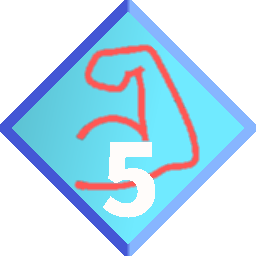
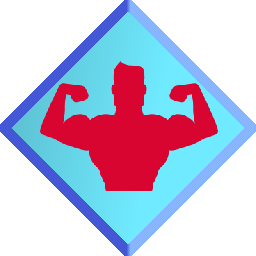
【パッシブの画像変更】新パッシブ追加

Changed region(s): [[0.1562, 0.1562, 0.875, 0.875]]

diff --git a/SourceCode/engine/2d/ImageManager.cpp b/SourceCode/engine/2d/ImageManager.cpp
@@ -42,15 +42,16 @@ void ImageManager::StartLoad2D()
 	IKESprite::LoadTexture(MAP_CHEACK_NO, L"Resources/2d/objicon/Map/T_Cancel.png");
 	IKESprite::LoadTexture(TUTORIAL_SKIPUI, L"Resources/2d/objicon/SKIP.png");
 	IKESprite::LoadTexture(PASSIVE_ACTIVE, L"Resources/2d/objicon/Passive/Passive_Active.png");
-	IKESprite::LoadTexture(PASSIVE_01, L"Resources/2d/objicon/Passive/Passive_01.png");
-	IKESprite::LoadTexture(PASSIVE_02, L"Resources/2d/objicon/Passive/Passive_02.png");
-	IKESprite::LoadTexture(PASSIVE_03, L"Resources/2d/objicon/Passive/Passive_03.png");
-	IKESprite::LoadTexture(PASSIVE_04, L"Resources/2d/objicon/Passive/Passive_04.png");
-	IKESprite::LoadTexture(PASSIVE_05, L"Resources/2d/objicon/Passive/Passive_05.png");
-	IKESprite::LoadTexture(PASSIVE_06, L"Resources/2d/objicon/Passive/Passive_06.png");
-	IKESprite::LoadTexture(PASSIVE_07, L"Resources/2d/objicon/Passive/Passive_07.png");
-	IKESprite::LoadTexture(PASSIVE_08, L"Resources/2d/objicon/Passive/Passive_08.png");
-	IKESprite::LoadTexture(PASSIVE_09, L"Resources/2d/objicon/Passive/Passive_09.png");
+	IKESprite::LoadTexture(PASSIVE_00, L"Resources/2d/objicon/Passive/Passive_00.png");
+	IKESprite::LoadTexture(PASSIVE_01, L"Resources/2d/objicon/Passive/PASSIVE_01.png");
+	IKESprite::LoadTexture(PASSIVE_02, L"Resources/2d/objicon/Passive/PASSIVE_02.png");
+	IKESprite::LoadTexture(PASSIVE_03, L"Resources/2d/objicon/Passive/PASSIVE_03.png");
+	IKESprite::LoadTexture(PASSIVE_04, L"Resources/2d/objicon/Passive/PASSIVE_04.png");
+	IKESprite::LoadTexture(PASSIVE_05, L"Resources/2d/objicon/Passive/PASSIVE_05.png");
+	IKESprite::LoadTexture(PASSIVE_06, L"Resources/2d/objicon/Passive/PASSIVE_06.png");
+	IKESprite::LoadTexture(PASSIVE_07, L"Resources/2d/objicon/Passive/PASSIVE_07.png");
+	IKESprite::LoadTexture(PASSIVE_08, L"Resources/2d/objicon/Passive/PASSIVE_08.png");
+	IKESprite::LoadTexture(PASSIVE_09, L"Resources/2d/objicon/Passive/PASSIVE_09.png");
 	IKESprite::LoadTexture(PASSIVE_FRAME, L"Resources/2d/objicon/Passive_Frame.png");
 	IKESprite::LoadTexture(GAUGE, L"Resources/2d/effect/white1x1.png");
 	IKESprite::LoadTexture(GAUGECOVER, L"Resources/2d/objicon/SkillGauge.png");

diff --git a/SourceCode/gamesystem/skill/HaveResultSkill.cpp b/SourceCode/gamesystem/skill/HaveResultSkill.cpp
@@ -111,7 +111,7 @@ void HaveResultSkill::CreateAttackSkill(const int num,const int id, DirectXCommo
 void HaveResultSkill::CreatePassiveSkill(const int num, const int id, DirectXCommon* dxCommon) {
 	XMFLOAT2 l_BasePos = { 640.0f,250.0f };
 	havePassive[num].position = { l_BasePos.x + ((num + (int)haveSkills.size()) * 150.0f),l_BasePos.y };
-	havePassive[num].icon = IKESprite::Create(ImageManager::PASSIVE_01 + havePassive[num].ID, {0.0f,0.0f});
+	havePassive[num].icon = IKESprite::Create(ImageManager::PASSIVE_00 + havePassive[num].ID, {0.0f,0.0f});
 	havePassive[num].icon->SetSize({ 64.0f,64.0f });
 	havePassive[num].icon->SetAnchorPoint({ 0.5f,0.5f });
 	havePassive[num].icon->SetPosition(havePassive[num].position);

diff --git a/SourceCode/gamesystem/skill/ResultSkill.cpp b/SourceCode/gamesystem/skill/ResultSkill.cpp
@@ -304,7 +304,7 @@ ResultSkill::ResultUI ResultSkill::CreateUI(bool isSkill, int id, XMFLOAT2 pos) 
 		resultUI.sentence[1] = resultUI.text_->GetSkillSentence(resultUI.ID);
 		resultUI.sentence[2] = resultUI.text_->GetSkillDamage(resultUI.ID);
 	} else {
-		resultUI.icon = IKESprite::Create(ImageManager::PASSIVE_01 + resultUI.ID, { 0.0f,0.0f });
+		resultUI.icon = IKESprite::Create(ImageManager::PASSIVE_00 + resultUI.ID, { 0.0f,0.0f });
 		resultUI.sentence[0] = L"パッシブ：";
 		resultUI.sentence[1] = resultUI.text_->GetPasiveSentence(resultUI.ID);
 		resultUI.sentence[2] = L" ";

diff --git a/SourceCode/gamesystem/scene/GameStateManager.cpp b/SourceCode/gamesystem/scene/GameStateManager.cpp
@@ -727,7 +727,7 @@ void GameStateManager::TakenDamageCheck(int Damage) {
 }
 void GameStateManager::SetPassiveActive(int id) {
 	isPassive = true;
-	passiveAct = IKESprite::Create(ImageManager::PASSIVE_01 + id, {0.f,0.f});
+	passiveAct = IKESprite::Create(ImageManager::PASSIVE_00 + id, {0.f,0.f});
 	passiveAct->SetPosition( { 640.f, 110.0f });
 	passiveAct->SetAnchorPoint({0.5f,0.5f});
 	passiveFrame = 0.f;

diff --git a/SourceCode/gamesystem/skill/Passive.cpp b/SourceCode/gamesystem/skill/Passive.cpp
@@ -12,7 +12,7 @@ Passive::~Passive() {
 }
 
 void Passive::Initialize() {
-	icon = IKESprite::Create(ImageManager::PASSIVE_01 + spriteNum, pos);
+	icon = IKESprite::Create(ImageManager::PASSIVE_00 + spriteNum, pos);
 	icon->SetSize(size);
 
 }

diff --git a/SourceCode/engine/2d/ImageManager.h b/SourceCode/engine/2d/ImageManager.h
@@ -51,6 +51,7 @@ public:
 		MAP_CHEACK_NO,
 		TUTORIAL_SKIPUI,
 		PASSIVE_ACTIVE,
+		PASSIVE_00,
 		PASSIVE_01,
 		PASSIVE_02,
 		PASSIVE_03,
